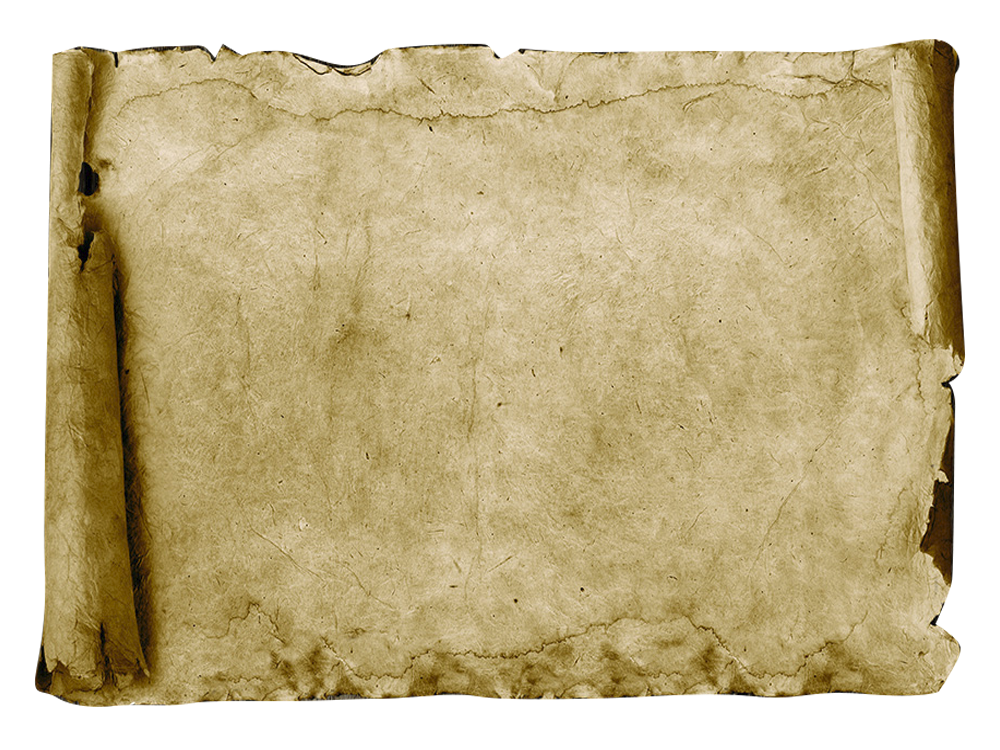
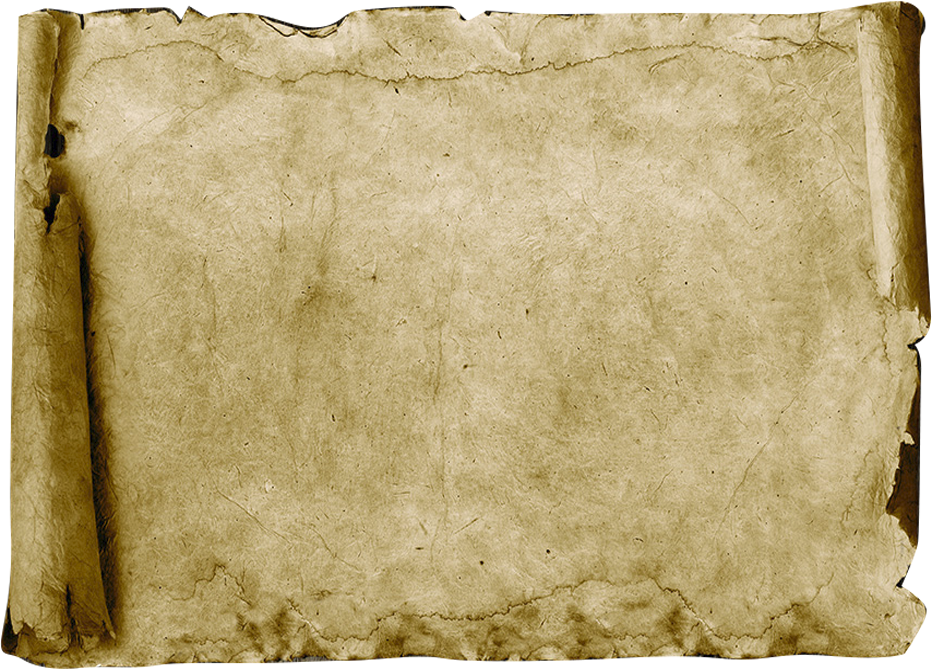
Edit des styles3

diff --git a/src/styles.scss b/src/styles.scss
@@ -46,10 +46,11 @@ body {
 }
 .bGroundAff {
   width: 100%;
+  height: 100%;
   border: none;
   background-image: url('/assets/img/background/parchemin.png');
   background-repeat: no-repeat;
-  background-position: center;
+  background-position: top;
   background-size: 100% 100%;
 }
 .bGroundR {

diff --git a/src/app/protected/table-jeu/table-center/table-affichage/affichage-chat/affichage-chat.component.html b/src/app/protected/table-jeu/table-center/table-affichage/affichage-chat/affichage-chat.component.html
@@ -1,3 +1,4 @@
-<div class="container-fluid h-100 bGroundAff">
-  <button mat-stroked-button (click)="affDefaut();">Retour</button>
+<div class="container-fluid pt-4 bGroundAff">
+  <p>CHAT</p>
+  <button mat-stroked-button class="fixed-bottom" (click)="affDefaut();">Retour</button>
 </div>

diff --git a/src/app/protected/table-jeu/table-center/table-affichage/affichage-details/affichage-details.component.html b/src/app/protected/table-jeu/table-center/table-affichage/affichage-details/affichage-details.component.html
@@ -1,1 +1,4 @@
-<p>affichage-details works!</p>
+<div class="container-fluid pt-4 bGroundAff">
+  <p>DETAILS</p>
+  <button mat-stroked-button class="fixed-bottom" (click)="affDefaut();">Retour</button>
+</div>

diff --git a/src/app/protected/table-jeu/table-center/table-affichage/affichage-create/affichage-create.component.html b/src/app/protected/table-jeu/table-center/table-affichage/affichage-create/affichage-create.component.html
@@ -1,1 +1,4 @@
-<p>affichage-create works!</p>
+<div class="container-fluid pt-4 bGroundAff">
+  <p>CREATE</p>
+  <button mat-stroked-button class="fixed-bottom" (click)="affDefaut();">Retour</button>
+</div>

diff --git a/src/app/protected/table-jeu/table-center/table-affichage/affichage-game/affichage-game.component.html b/src/app/protected/table-jeu/table-center/table-affichage/affichage-game/affichage-game.component.html
@@ -1,1 +1,4 @@
-<p>affichage-game works!</p>
+<div class="container-fluid pt-4 bGroundAff">
+  <p>GAME</p>
+  <button mat-stroked-button class="fixed-bottom" (click)="affDefaut();">Retour</button>
+</div>
